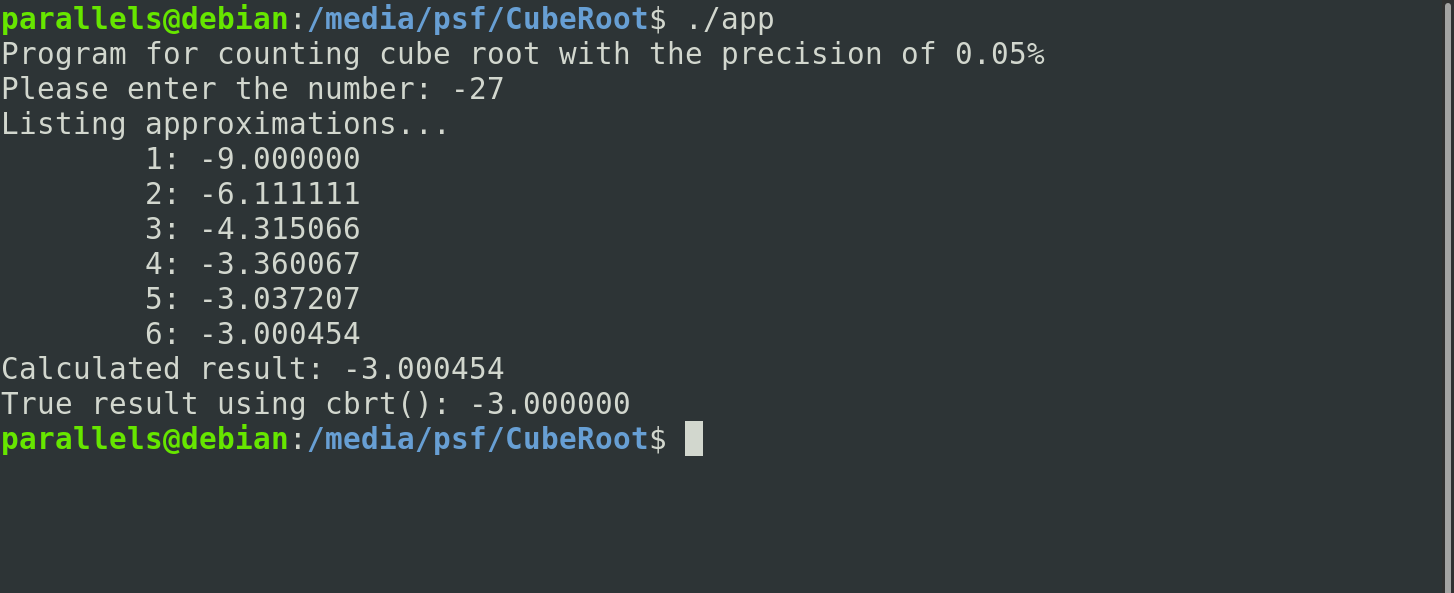
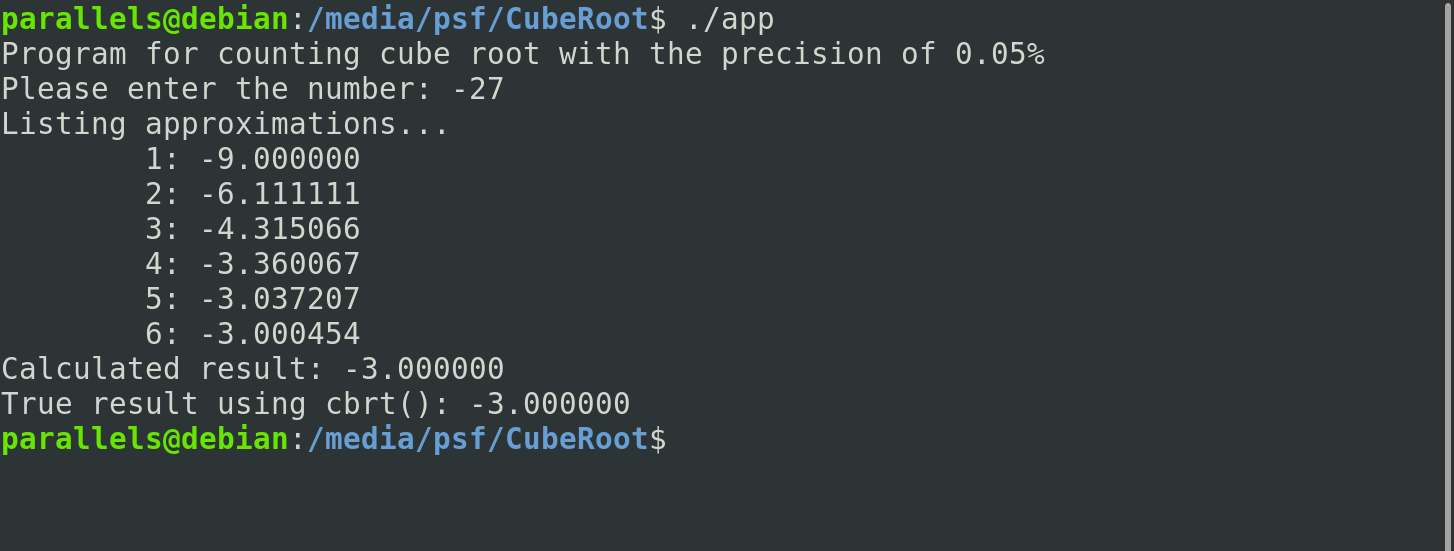
Images updated

Changed region(s): [[0.0, 0.0, 0.7428, 0.833]]

diff --git a/README.md b/README.md
@@ -21,15 +21,15 @@
 ### Пример работы
 Ниже представлены несколько вариантов входных данных и соответствующие результаты исполнения:
 
-Исходное число: 8, результат: 2.000056
+Исходное число: 8, результат: 2.000000
 ![picture 1](https://raw.githubusercontent.com/OlegStanKoptev/CubeRoot/master/images/1.png)
-Исходное число: 970299, результат: 99.000044
+Исходное число: 970299, результат: 99.000000
 ![picture 2](https://raw.githubusercontent.com/OlegStanKoptev/CubeRoot/master/images/2.png)
-Исходное число: -27, результат: -3.000454
+Исходное число: -27, результат: -3.000000
 ![picture 3](https://raw.githubusercontent.com/OlegStanKoptev/CubeRoot/master/images/3.png)
-Исходное число: 0, результат: 0
+Исходное число: 0, результат: nan (потому что при сравнении точности есть деление на значение элемента)
 ![picture 4](https://raw.githubusercontent.com/OlegStanKoptev/CubeRoot/master/images/4.png)
-Исходное число: 99999999999999, результат: 46416.322430
+Исходное число: 99999999999999, результат: 46415.888340
 ![picture 5](https://raw.githubusercontent.com/OlegStanKoptev/CubeRoot/master/images/5.png)
 
 Во всех случаях вычисленное значение лежит в области допустимой погрешности
@@ -96,9 +96,9 @@ main:
     ; start();
     call start
 
-    ; printf("Calculated result: %.3f\n", x);
+    ; printf("Calculated result: %.3f\n", next_x);
     mov rdi, strCalcRes
-    movsd xmm0, [x]
+    movsd xmm0, [next_x]
     mov eax, 1
     call printf
 
@@ -157,14 +157,14 @@ start:
         call getNext
         movsd qword [next_x], xmm0
 
-        ; while (abs(next_x - x) * 100 / x > epsilon)
+        ; while (abs(next_x - x) * 100 / next_x > epsilon)
         fld qword [epsilon]
         fld qword [next_x]
         fld qword [x]
         fsubp st1, st0
         fild dword [hundred]
         fmulp st1, st0
-        fld qword [x]
+        fld qword [next_x]
         fdivp st1, st0
         fabs
 
